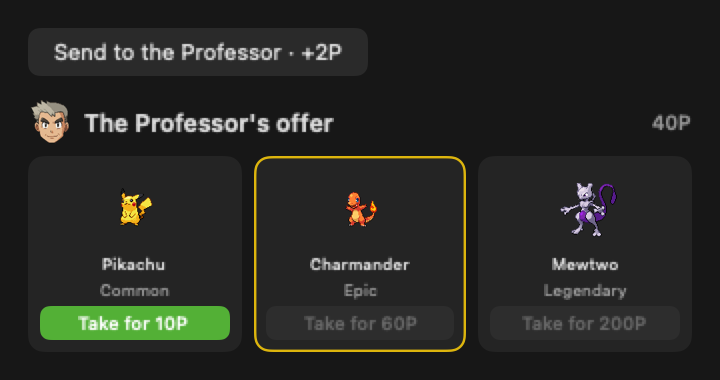
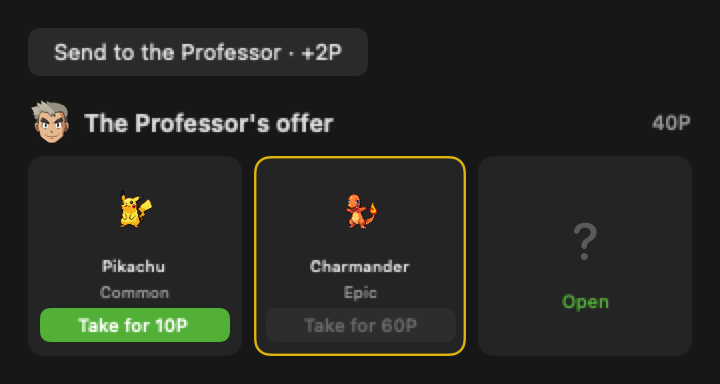
landing: turn the Professor's three cards face down

diff --git a/index.html b/index.html
@@ -318,6 +318,10 @@
         <figcaption data-i18n="cap.professor">Pokémon you were never going to raise can go to the Professor, who pays in research points — more for the ones you did raise, so what you clear out is naturally the duplicates you left alone. Points are their own currency: they can't buy Eggs, and tokens can't buy from him. Every day he offers three in exchange, leaning toward species missing from your Dex. Pick several at once in the Box; anything shiny or Legendary in the batch is named out loud and asked about twice.</figcaption>
       </figure>
       <figure>
+        <div class="shot"><img src="assets/blind-offers.png" alt="The Professor's offer shown three times: all three cards face down, then one turned over to a Pikachu, then all three open with a shiny Charmander ringed in gold"></div>
+        <figcaption data-i18n="cap.blindoffers">The three arrive face down, and you turn them over one at a time — each card opens where it sits, with rings that widen and colour by grade the way a hatching Egg does. Nothing leaks before you open a card, not even the gold ring a shiny wears. And the three are yours alone: each save rolls its own.</figcaption>
+      </figure>
+      <figure>
         <div class="shot"><img src="assets/form-banner.png" alt="Palafin and Terapagos beside the forms they change into"></div>
         <figcaption data-i18n="cap.partnerform">A few change by who you keep close. Palafin turns Hero when it steps back, not when it comes out — swap it away and it returns changed. Terapagos wears its Terastal Form for as long as it is with you.</figcaption>
       </figure>
@@ -367,7 +371,7 @@
         </figure>
         <figure>
           <div class="shot"><img src="assets/floating-pet.gif" alt="The floating desktop pet with a hover callout"></div>
-          <figcaption data-i18n="cap.pet">Or move your partner onto the desktop — hover for today's usage, drag it anywhere.</figcaption>
+          <figcaption data-i18n="cap.pet">Or move your partner onto the desktop — hover for today's usage, drag it anywhere. It moves faster while you're burning tokens, and idles at its normal speed.</figcaption>
         </figure>
       </div>
     </div>
@@ -473,6 +477,7 @@
       "cap.warmed": "Flame Body, Magma Armor and Steam Engine halve egg hatching in the games, and the 23 species carrying one do it here. Owning any of them is enough — anything already incubating loses half its remaining time, and every egg after starts at half.",
       "cap.foundegg": "A fully evolved Pokémon has nowhere left to put its experience, so it gathers into an Egg of that Pokémon's own line — a Charizard brings a Charmander Egg, filling in the stages you skipped. Press the announcement and it drops straight into a hatching slot; experience stops there and resets when you take it, so only one ever waits.",
       "cap.professor": "Pokémon you were never going to raise can go to the Professor, who pays in research points — more for the ones you did raise, so what you clear out is naturally the duplicates you left alone. Points are their own currency: they can't buy Eggs, and tokens can't buy from him. Every day he offers three in exchange, leaning toward species missing from your Dex. Pick several at once in the Box; anything shiny or Legendary in the batch is named out loud and asked about twice.",
+      "cap.blindoffers": "The three arrive face down, and you turn them over one at a time — each card opens where it sits, with rings that widen and colour by grade the way a hatching Egg does. Nothing leaks before you open a card, not even the gold ring a shiny wears. And the three are yours alone: each save rolls its own.",
 
       "tr.eyebrow": "Underneath",
       "tr.h2": "A usage tracker you'll actually open",
@@ -484,7 +489,7 @@
       "tr.k3": "Forecast", "tr.t3": "Burn rate, projected",
       "tr.d3": "Projects when the current 5-hour window will hit 100% at your present pace, so a wall never surprises you.",
       "cap.menubar": "An animated sprite next to today's total, in the menu bar.",
-      "cap.pet": "Or move your partner onto the desktop — hover for today's usage, drag it anywhere.",
+      "cap.pet": "Or move your partner onto the desktop — hover for today's usage, drag it anywhere. It moves faster while you're burning tokens, and idles at its normal speed.",
 
       "w.eyebrow": "Works with",
       "w.h2": "Seven CLIs, read straight from disk",
@@ -539,6 +544,7 @@
       "cap.warmed": "불꽃몸·마그마의무장·증기기관은 원작에서 부화를 절반으로 줄여 주고, 그 특성을 가진 23종이 여기서도 같은 일을 합니다. 박스에 있기만 하면 되고, 이미 부화 중이던 알은 남은 시간이 절반이 됩니다.",
       "cap.foundegg": "다 진화한 포켓몬은 경험치가 갈 곳이 없어, 그 경험치가 자기 라인의 알로 모입니다 — 리자몽은 파이리 알을 가져와 건너뛴 앞 단계를 도감에 메우게 해줘요. 알림을 누르면 바로 아래 부화 칸에 들어가고, 경험치는 알 하나에서 멈춰 받으면 0으로 돌아갑니다.",
       "cap.professor": "끝내 안 키울 포켓몬은 박사에게 보내고 연구 포인트를 받습니다 — 키운 아이일수록 값이 나가서, 정리 대상이 자연히 손 안 댄 중복이 돼요. 포인트는 별개 재화라 알을 못 사고, 토큰으로는 박사와 거래할 수 없어요. 박사는 매일 세 마리를 내밀며 도감에 없는 종을 좀 더 자주 골라 옵니다. 박스에서 여러 마리를 한 번에 고를 수도 있어요 — 이로치나 전설이 섞이면 이름으로 불러 주고 한 번 더 물어봅니다.",
+      "cap.blindoffers": "셋은 가려진 채로 도착하고 한 칸씩 뒤집어 봅니다 — 카드는 그 자리에서 열리고, 등급에 따라 고리가 넓어지고 색이 짙어져요(알이 깨질 때와 같은 색 사다리). 열기 전에는 아무것도 안 새요, 이로치가 두르는 금테마저도요. 그리고 이 셋은 당신 것이에요 — 세이브마다 따로 굴립니다.",
 
       "tr.eyebrow": "그 아래엔",
       "tr.h2": "정말로 열어보게 되는 사용량 트래커",
@@ -550,7 +556,7 @@
       "tr.k3": "예측", "tr.t3": "소진 속도 예보",
       "tr.d3": "지금 속도라면 현재 5시간 창이 언제 100%에 닿을지 미리 계산합니다. 갑자기 막힐 일이 없어요.",
       "cap.menubar": "메뉴바에서 오늘 합계 옆에 움직이는 스프라이트.",
-      "cap.pet": "파트너를 바탕화면으로 옮길 수도 있어요 — 호버하면 오늘 사용량, 드래그로 아무 데나.",
+      "cap.pet": "파트너를 바탕화면으로 옮길 수도 있어요 — 호버하면 오늘 사용량, 드래그로 아무 데나. 토큰을 많이 쓰는 동안엔 더 빨리 움직이고, 쉬는 동안엔 원래 속도예요.",
 
       "w.eyebrow": "연동",
       "w.h2": "7개 CLI, 디스크에서 바로 읽습니다",
@@ -605,6 +611,7 @@
       "cap.warmed": "ほのおのからだ・マグマのよろい・じょうききかんは原作でふ化を半分にします。その特性を持つ23種がここでも同じ働きをし、ボックスにいるだけでふ化中のタマゴの残り時間が半分になります。",
       "cap.foundegg": "しんかしきったポケモンのけいけんちは行き場がなく、じぶんのラインのタマゴになります — リザードンはヒトカゲのタマゴをもってきて、とばした前のすがたを図鑑にうめられます。おしらせをおすとすぐ下のふ化スロットに入り、けいけんちはタマゴひとつでとまって、うけとると0にもどります。",
       "cap.professor": "けっきょく育てないポケモンははかせにおくって、けんきゅうポイントをもらえます — 育てた子ほど高くつくので、整理するのは自然と手をつけなかった重複になります。ポイントは別のつうかで、タマゴは買えず、トークンでははかせと取引できません。はかせは毎日3ひきをていあんし、図鑑にいない種をすこし多めにえらんできます。ボックスでまとめてえらぶこともでき、色違いや伝説がまざると名前でよびかけ、もういちど確認します。",
+      "cap.blindoffers": "3ひきはふせられてとどき、1まいずつめくっていきます — カードはその場でひらき、ランクにおうじて輪がひろがり色がこくなります（タマゴがかえるときと同じ色のはしご）。ひらくまではなにももれません。色違いがまとう金枠さえもです。そしてこの3ひきはあなたのもの — セーブごとにべつべつにふります。",
 
       "tr.eyebrow": "その下では",
       "tr.h2": "実際に開きたくなる使用量トラッカー",
@@ -616,7 +623,7 @@
       "tr.k3": "予測", "tr.t3": "消費ペースの予報",
       "tr.d3": "今のペースなら現在の5時間ウィンドウがいつ100%に達するかを算出。壁に不意打ちされません。",
       "cap.menubar": "メニューバーで、今日の合計の隣に動くスプライト。",
-      "cap.pet": "パートナーをデスクトップに出すこともできます — ホバーで今日の使用量、ドラッグでどこへでも。",
+      "cap.pet": "パートナーをデスクトップに出すこともできます — ホバーで今日の使用量、ドラッグでどこへでも。トークンを多く使っている間は速く動き、休んでいる間は元の速さです。",
 
       "w.eyebrow": "対応ツール",
       "w.h2": "7つの CLI を、ディスクから直接読む",
